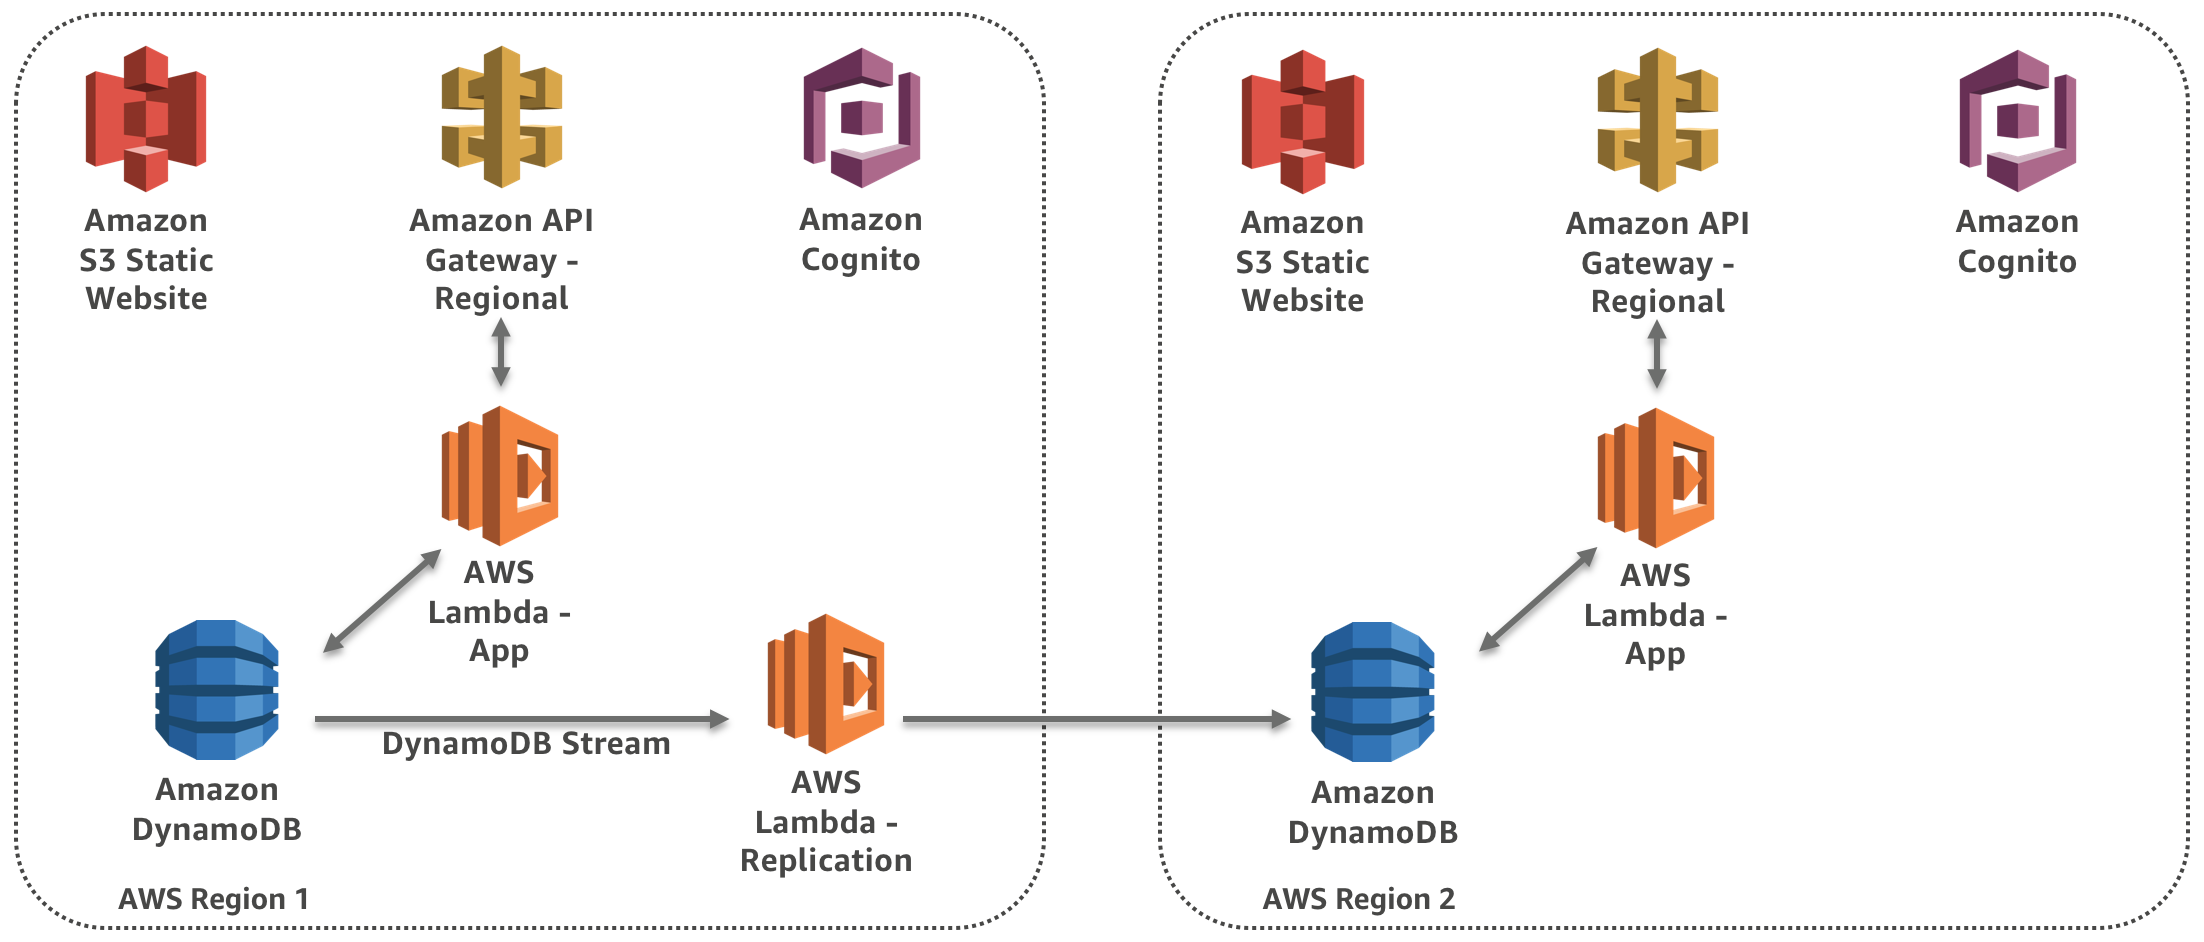
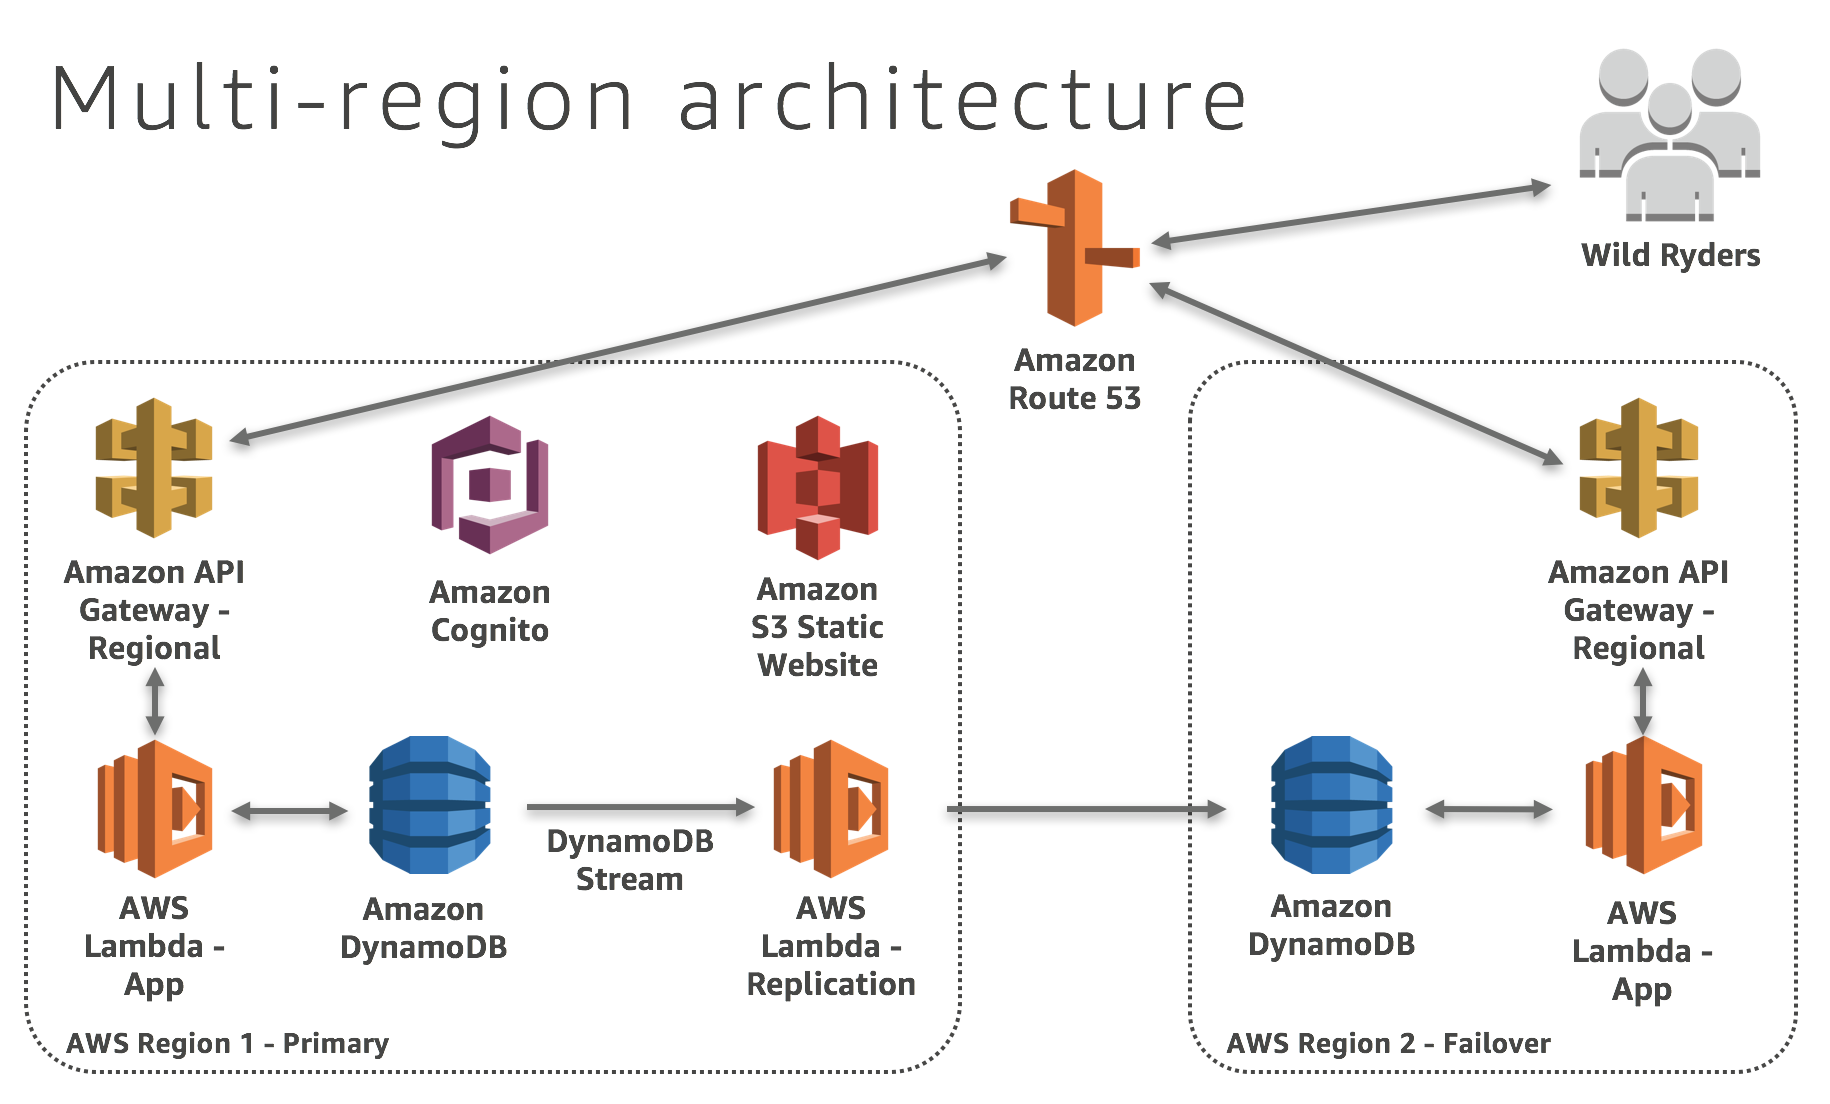
Updates to Multi-Region (#74)
* minor mod 2 edits
* Updated architecture graphic

* minor edits

diff --git a/MultiRegion/README_InstallDevDependencies.md b/MultiRegion/README_InstallDevDependencies.md
@@ -2,21 +2,21 @@
 
 This README provides instructions on setting up a dev environment
 that you can use to clone the project, edit project files, build the UI
-and deploy the application. 
+and deploy the application.
 
-We recommend you use the given AMI with the necessary dependencies, i.e. git, 
+We recommend you use the given AMI with the necessary dependencies, i.e. git,
 node/npm, angular cli already installed and configured.
 
 Our dev environment instance will be in `eu-west-1` (Ireland)
 
 ## Using an AMI
 
-Make sure you are in eu-west-1 region. Launch an EC2 instance by navigating 
-to the "Community AMI"s in step 1 of EC2 launch wizard. In the "Search 
-community AMIs" text box enter "sxr-dev-instance". For this instance a 
+Make sure you are in eu-west-1 region. Launch an EC2 instance by navigating
+to the "Community AMI"s in step 1 of EC2 launch wizard. In the "Search
+community AMIs" text box enter "sxr-dev-instance". For this instance a
 t2.micro will suffice. Launch the instance in a public subnet with a
 security group allowing ssh from your ip address and a role allowing
-s3 access (sample policy below).
+Administrator access to the AWS account (sample policy below).
 
 
 ## EC2 Dev Instance Configuration.
@@ -25,7 +25,7 @@ If you would really like to set up your own instance from scratch you can execut
 
 For this dev instance
 - a t2.micro will be fine.
-- use the AWS Linux AMI already configured with the AWS CLI. 
+- use the AWS Linux AMI already configured with the AWS CLI.
 - deploy to the default VPC
 
 Your EC2 instance should have:
@@ -79,12 +79,14 @@ This will take about a minute and when done you will see a message like
 You should now be able to build the UI when you get to that step in the second module.
 
 
-## Example Policy allowing EC2 dev instance to write to your S3 bucket
+## Example Policy allowing EC2 dev instance access to the account
 
-You can use this sample policy to attach to ec2 role. 
+You can use this sample policy to attach to ec2 role or you can simply create
+a role and attach Administrator access to it.
 
-**NOTE: this is a permissive policy allowing all access to s3. For your 
-own environment we recommend a more restrictive policy that enforces 
+
+**NOTE: this is a permissive policy allowing all access to s3. For your
+own environment we recommend a more restrictive policy that enforces
 least privilege.**
 ```json
 {
@@ -92,7 +94,7 @@ least privilege.**
     "Statement": [
         {
             "Effect": "Allow",
-            "Action": "s3:*",
+            "Action": "*",
             "Resource": "*"
         }
     ]

diff --git a/MultiRegion/README.md b/MultiRegion/README.md
@@ -64,7 +64,7 @@ to make this work.
 
 You will also need to either purchase a domain, or repurpose an existing
 unused domain you already own.  You will need to delegate DNS to Route53 if
-the domain is not already acquired through AWS.  You will also need access to
+the domain is not already acquired through AWS.  You may also need access to
 the email account associated with the domain name registration.
 
 ### Facebook Developer Account and App ID
@@ -101,6 +101,7 @@ separate instructions under
 [README_InstallDevDependencies.md](README_InstallDevDependencies.md). This
 also includes setting up an EC2 instance if you would prefer to do this in the
 Cloud rather than your local machine. Follow those and then come back here.
+We also offer the ability to use a pre-configuted EC2 instance as well.
 
 ### Browser
 

diff --git a/MultiRegion/2_UI/README.md b/MultiRegion/2_UI/README.md
@@ -16,6 +16,9 @@ API. As in *Module 1*, a CloudFormation template is available to create all the
 necessary resources for us. This template does not rely on any local code so
 no package step is needed.
 
+For time reasons we are not proving console instructions for this section.  Do
+feel free to review the CloudFormation template to see what is being created.
+
 You can go ahead and deploy this template in the primary region using the `aws
 cloudformation deploy` CLI command as before.
 

diff --git a/MultiRegion/4_Testing/README.md b/MultiRegion/4_Testing/README.md
@@ -48,8 +48,8 @@ function and you should still be able to view and create tickets.
 
 ![Failed over health check response](images/failed-over-response.png)
 
-Don't forget to switch your API Gateway back to the *TicketGetFunction* once
-you are done testing failover!
+Don't forget to switch your API Gateway configuration back to the
+*SXRHealthCheckFunction* once you are done testing failover!
 
 ## Completion
 
